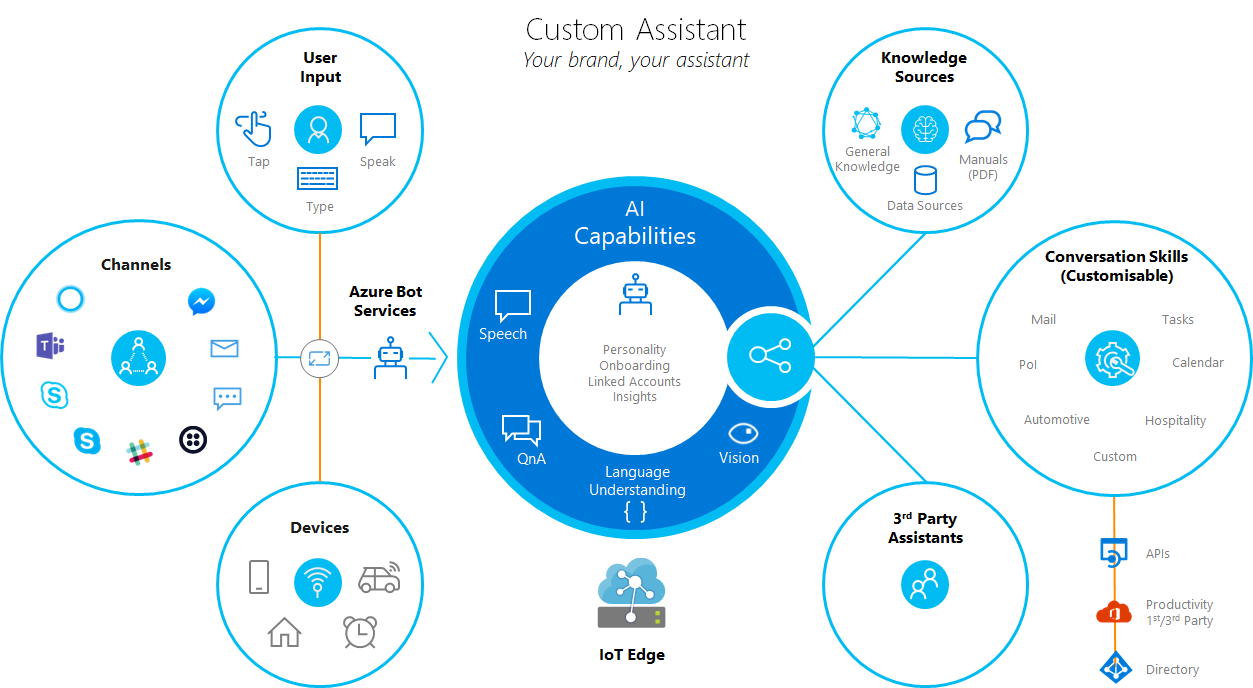
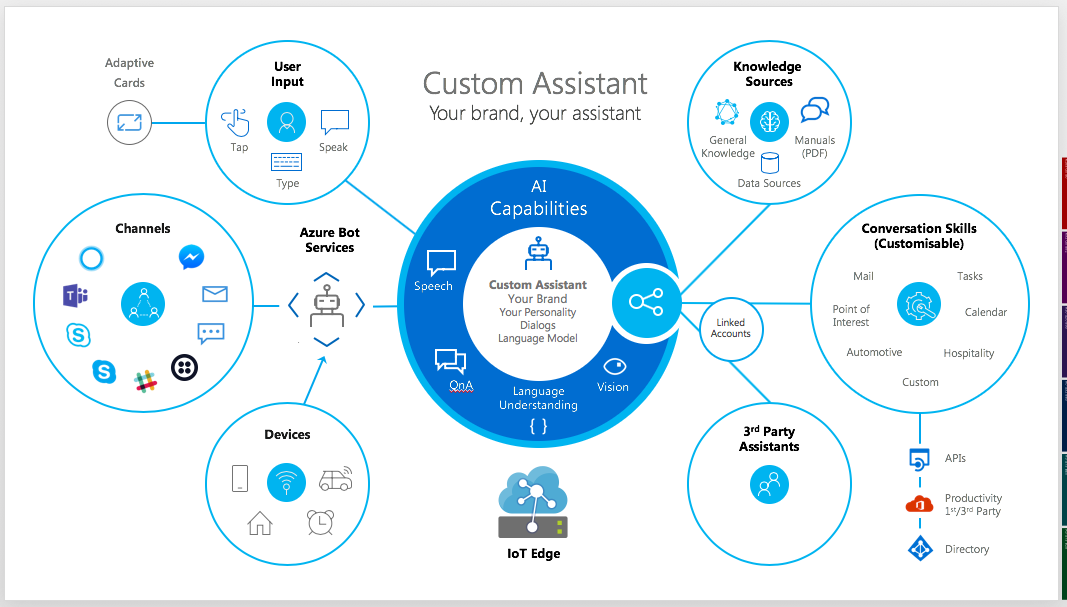
toc in readme and new diagram

diff --git a/solutions/Custom-Assistant/docs/README.md b/solutions/Custom-Assistant/docs/README.md
@@ -67,35 +67,28 @@ The Custom Assistant extends across a broad number of industry scenarios, exampl
 
 - Hospitality: Voice enabled Personal Assistant integrated into a hotel-room device providing a broad range of Hospitality focused scenarios (e.g. extend your stay, request late checkout, room service) including concierge and the ability to find local restuarants and attractions. Optional linking to your Productivity accounts open up more personalised experiences such as suggested alarm calls, Weather warnings and learning of patterns across stays. An evolution of the current TV personalisation experienced in room today.
 
-- Enterprise: Voice and Text enabled branded Employee Assistant experiences integrated into enterprise devices and existing conversation canvases (e.g. Teams, WebChat, Slack) enabling employees to manage their calendars, find available meeting rooms, find people with specific skills or perform HR related operations. 
+- Enterprise: Voice and Text enabled branded Employee Assistant experiences integrated into enterprise devices and existing conversation canvases (e.g. Teams, WebChat, Slack) enabling employees to manage their calendars, find available meeting rooms, find people with specific skills or perform HR related operations.
 
 ## Documentation
 
 - Custom Assistant
-    - Overview
-    - [Detailed Overview](./detailedoverview.md)
-    - Device Integration
-    - Events
-    - Known Issues
-    - Linked Accounts
-    - Responses
-    - Testing
-
-    | Skills
-        | Overview
-        | Adding a Skill
-        | Creating a Skill
-        | Productivity - Calendar Skill
-        | Productivity - Email Skill
-        | Productivity - Tasks Skill
-        | Point of Interest Skill
-        
-
-
-- [Create your Custom Assistant](./customassistant-createcustomassistant.md)
-- [Testing your Custom Assistant](./customassistant-testing.md)
-- [Add a Skill](./customassistant-addingaskill.md)
-- [Integrate into a device](./customassistant-deviceintegration.md)
+    - [Detailed Overview](./customassistant/detailedoverview.md)
+    - [Create your Custom Assistant](./customassistant-createcustomassistant.md)
+    - [Testing your Custom Assistant](./customassistant-testing.md)
+    - [Integrate into a device](./customassistant-deviceintegration.md)
+    - [Events](./customassistant-events.md)
+    - [Linked Accounts](./customassistant-linkedaccounts.md)
+    - [Responses](./customassistant-responses.md)
+    - [Language Support](./customassistant-languagesupport.md)
+    - [Known Issues](./customassistant-knownissues.md)
+- Skills
+    - [Overview](./customassistant-skills.md)
+    - [Adding a Skill](./customassistant-addingskill.md)
+    - [Creating a Skill](./customassistant-skillenablement.md)
+    - [Productivity - Calendar Skill](./customassistant-skills-productivity-calendar.md)
+    - [Productivity - Email Skill](./customassistant-skills-productivity-email.md)
+    - [Productivity - Tasks Skill](./customassistant-skills-productivity-tasks.md)
+    - [Point of Interest Skill](./customassistant-skills-pointofinterest.md)
 
 # Contributing
 

diff --git a/solutions/Custom-Assistant/docs/customassistant-createcustomassistant.md b/solutions/Custom-Assistant/docs/customassistant-createcustomassistant.md
@@ -61,7 +61,7 @@ The Custom Assistant require the following dependencies for end to end operation
 - Azure Cognitive Services - QnAMaker (including Azure Search, Azure Web App)
 - Azure Cognitive Services - Content Moderator (optional manual step)
 
-> Once deployed, review the Pricing Tiers for the created services and adjust to suit your scenario.
+> Review the pricing and terms for the services and adjust to suit your scenario
 
 If you have multiple Azure subscriptions and want to ensure the deployment selects the correct one, run the following commands before continuing.
 
